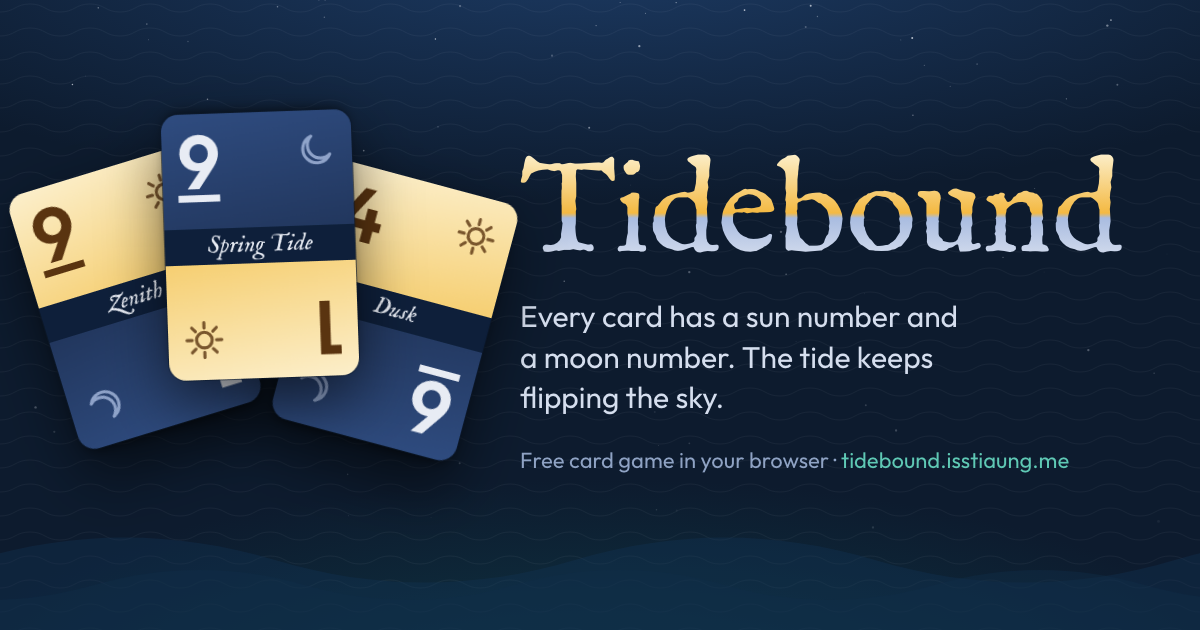
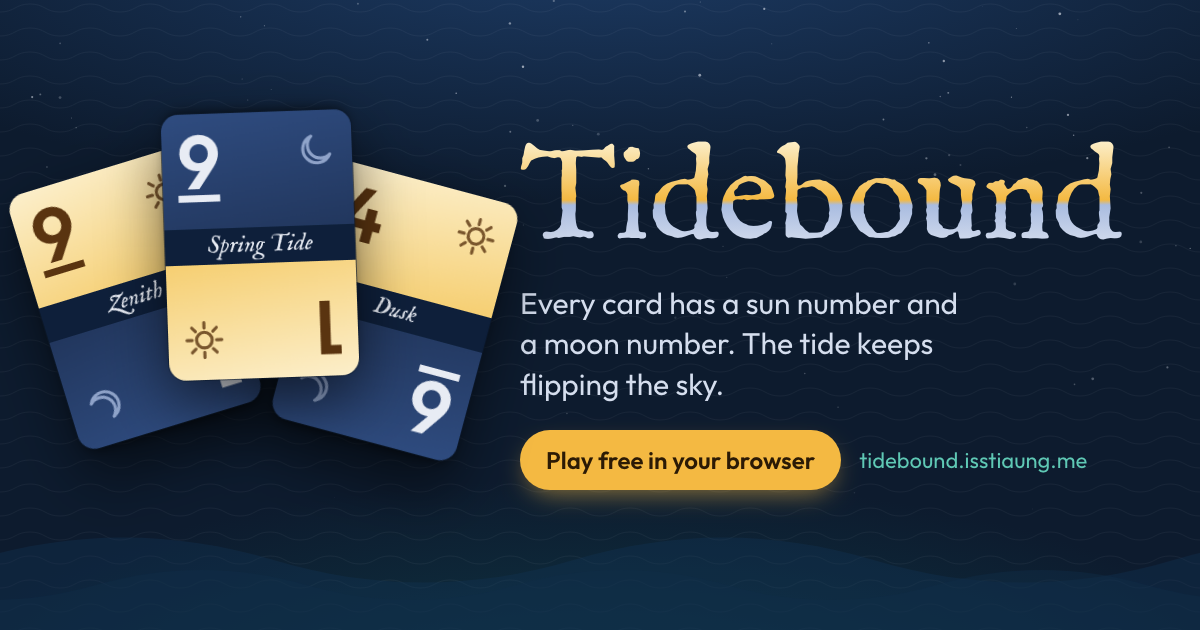
Polish link preview: call to action on the image, shorter description, X tags
- Preview image now has a 'Play free in your browser' button-style label
- og:description shortened from 128 to 113 characters so it isn't
  truncated on mobile
- twitter:title, description, image and image:alt added (X falls back to
  Open Graph, but some checkers and scrapers look for them)

Changed region(s): [[0.4317, 0.4524, 0.925, 0.8143], [0.4317, 0.2111, 0.9558, 0.4222]]

diff --git a/index.html b/index.html
@@ -25,17 +25,24 @@
     <meta property="og:title" content="Tidebound – a sun and moon card game" />
     <meta
       property="og:description"
-      content="Every card has a sun number and a moon number, and the tide keeps flipping the sky. Free to play in your browser, on any device."
+      content="Every card has a sun number and a moon number, and the tide keeps flipping the sky. Free to play in your browser."
     />
     <meta property="og:image" content="https://tidebound.isstiaung.me/og-image.png" />
     <meta property="og:image:width" content="1200" />
     <meta property="og:image:height" content="630" />
     <meta
       property="og:image:alt"
-      content="Three Tidebound cards, one turned to show its moon number on top, beside the Tidebound wordmark."
+      content="Three Tidebound cards, one turned to show its moon number on top, beside the Tidebound wordmark and a Play free button."
     />
     <meta property="og:locale" content="en_US" />
     <meta name="twitter:card" content="summary_large_image" />
+    <meta name="twitter:title" content="Tidebound – a sun and moon card game" />
+    <meta name="twitter:description" content="Every card has a sun number and a moon number, and the tide keeps flipping the sky. Free to play in your browser." />
+    <meta name="twitter:image" content="https://tidebound.isstiaung.me/og-image.png" />
+    <meta
+      name="twitter:image:alt"
+      content="Three Tidebound cards, one turned to show its moon number on top, beside the Tidebound wordmark and a Play free button."
+    />
 
     <!-- Structured data for search engines -->
     <script type="application/ld+json">
